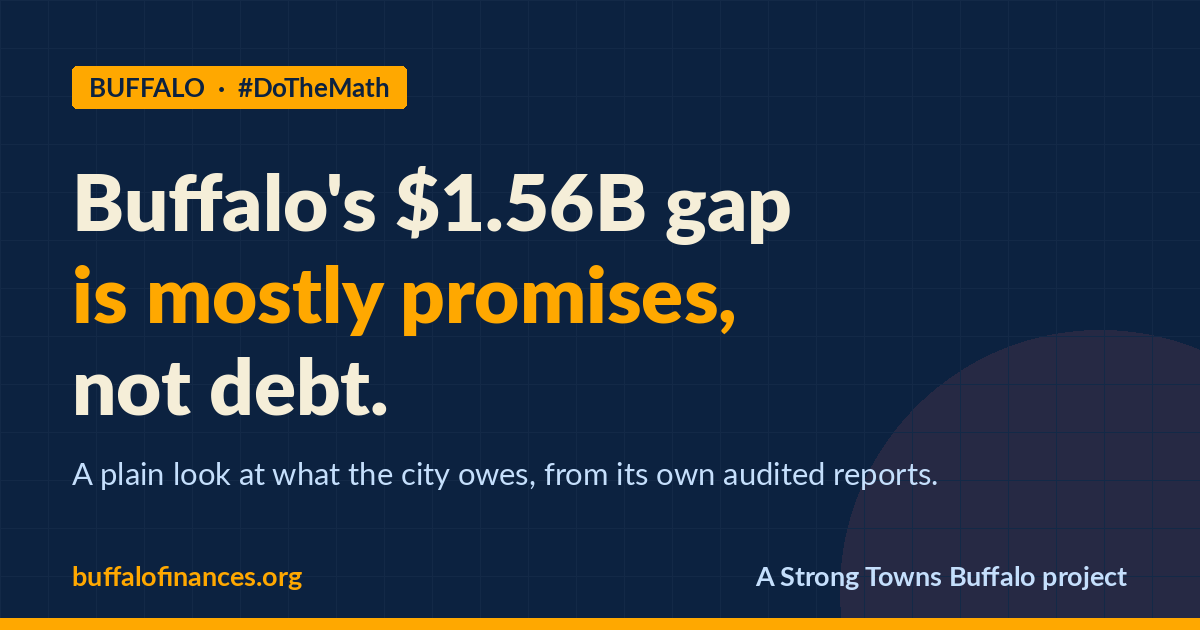
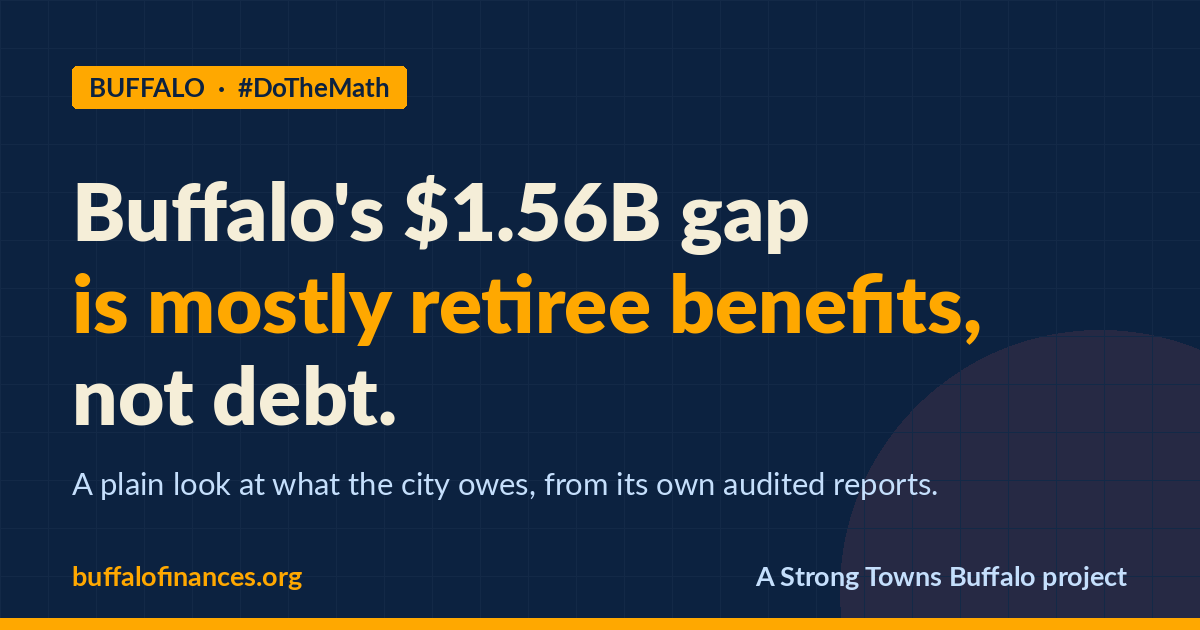
Add files via upload

Changed region(s): [[0.0617, 0.2714, 0.8325, 0.5429], [0.0617, 0.7238, 0.8017, 0.7841], [0.0617, 0.573, 0.3392, 0.6937]]

diff --git a/index.html b/index.html
@@ -139,7 +139,7 @@
     <p class="sub">Most of what Buffalo owes isn't debt, and that's the encouraging part. Here's the short, plain version, straight from the city's own books.</p>
     <div class="answer-card">
       <div class="num" id="num">&minus;$1.56B</div>
-      <div class="cap" id="cap">owed beyond what the city has in the bank, and most of it is unfunded promises, not debt</div>
+      <div class="cap" id="cap">owed beyond what the city has in the bank, and most of it is unfunded retiree benefits, not debt</div>
       <label class="toggle-row" for="t">
         <span class="switch"><input type="checkbox" id="t" aria-describedby="cap"><span class="track"><span class="thumb"></span></span></span>
         <span class="tlabel">Add the repairs the books leave out</span>
@@ -187,7 +187,7 @@
   <div class="deeper">
     <a href="does-it-own-more-than-it-owes.html">
       <div class="dt">The whole story <span class="arrow">&#10132;</span></div>
-      <div class="dd">A plain, kitchen-table walkthrough, and why the gap is mostly promises, not debt.</div>
+      <div class="dd">A plain, kitchen-table walkthrough, and why the gap is mostly retiree benefits, not debt.</div>
     </a>
     <a href="finance-decoder.html">
       <div class="dt">20 years of charts <span class="arrow">&#10132;</span></div>
@@ -206,7 +206,7 @@
   var t=document.getElementById('t'),num=document.getElementById('num'),
       cap=document.getElementById('cap'),reveal=document.getElementById('reveal');
   var ON={n:'≈ −$3.5B',c:'with the road-and-pipe repairs added in'},
-      OFF={n:'−$1.56B',c:"owed beyond what the city has in the bank, and most of it is unfunded promises, not debt"};
+      OFF={n:'−$1.56B',c:"owed beyond what the city has in the bank, and most of it is unfunded retiree benefits, not debt"};
   t.addEventListener('change',function(){
     var on=t.checked;
     num.classList.add('flip');